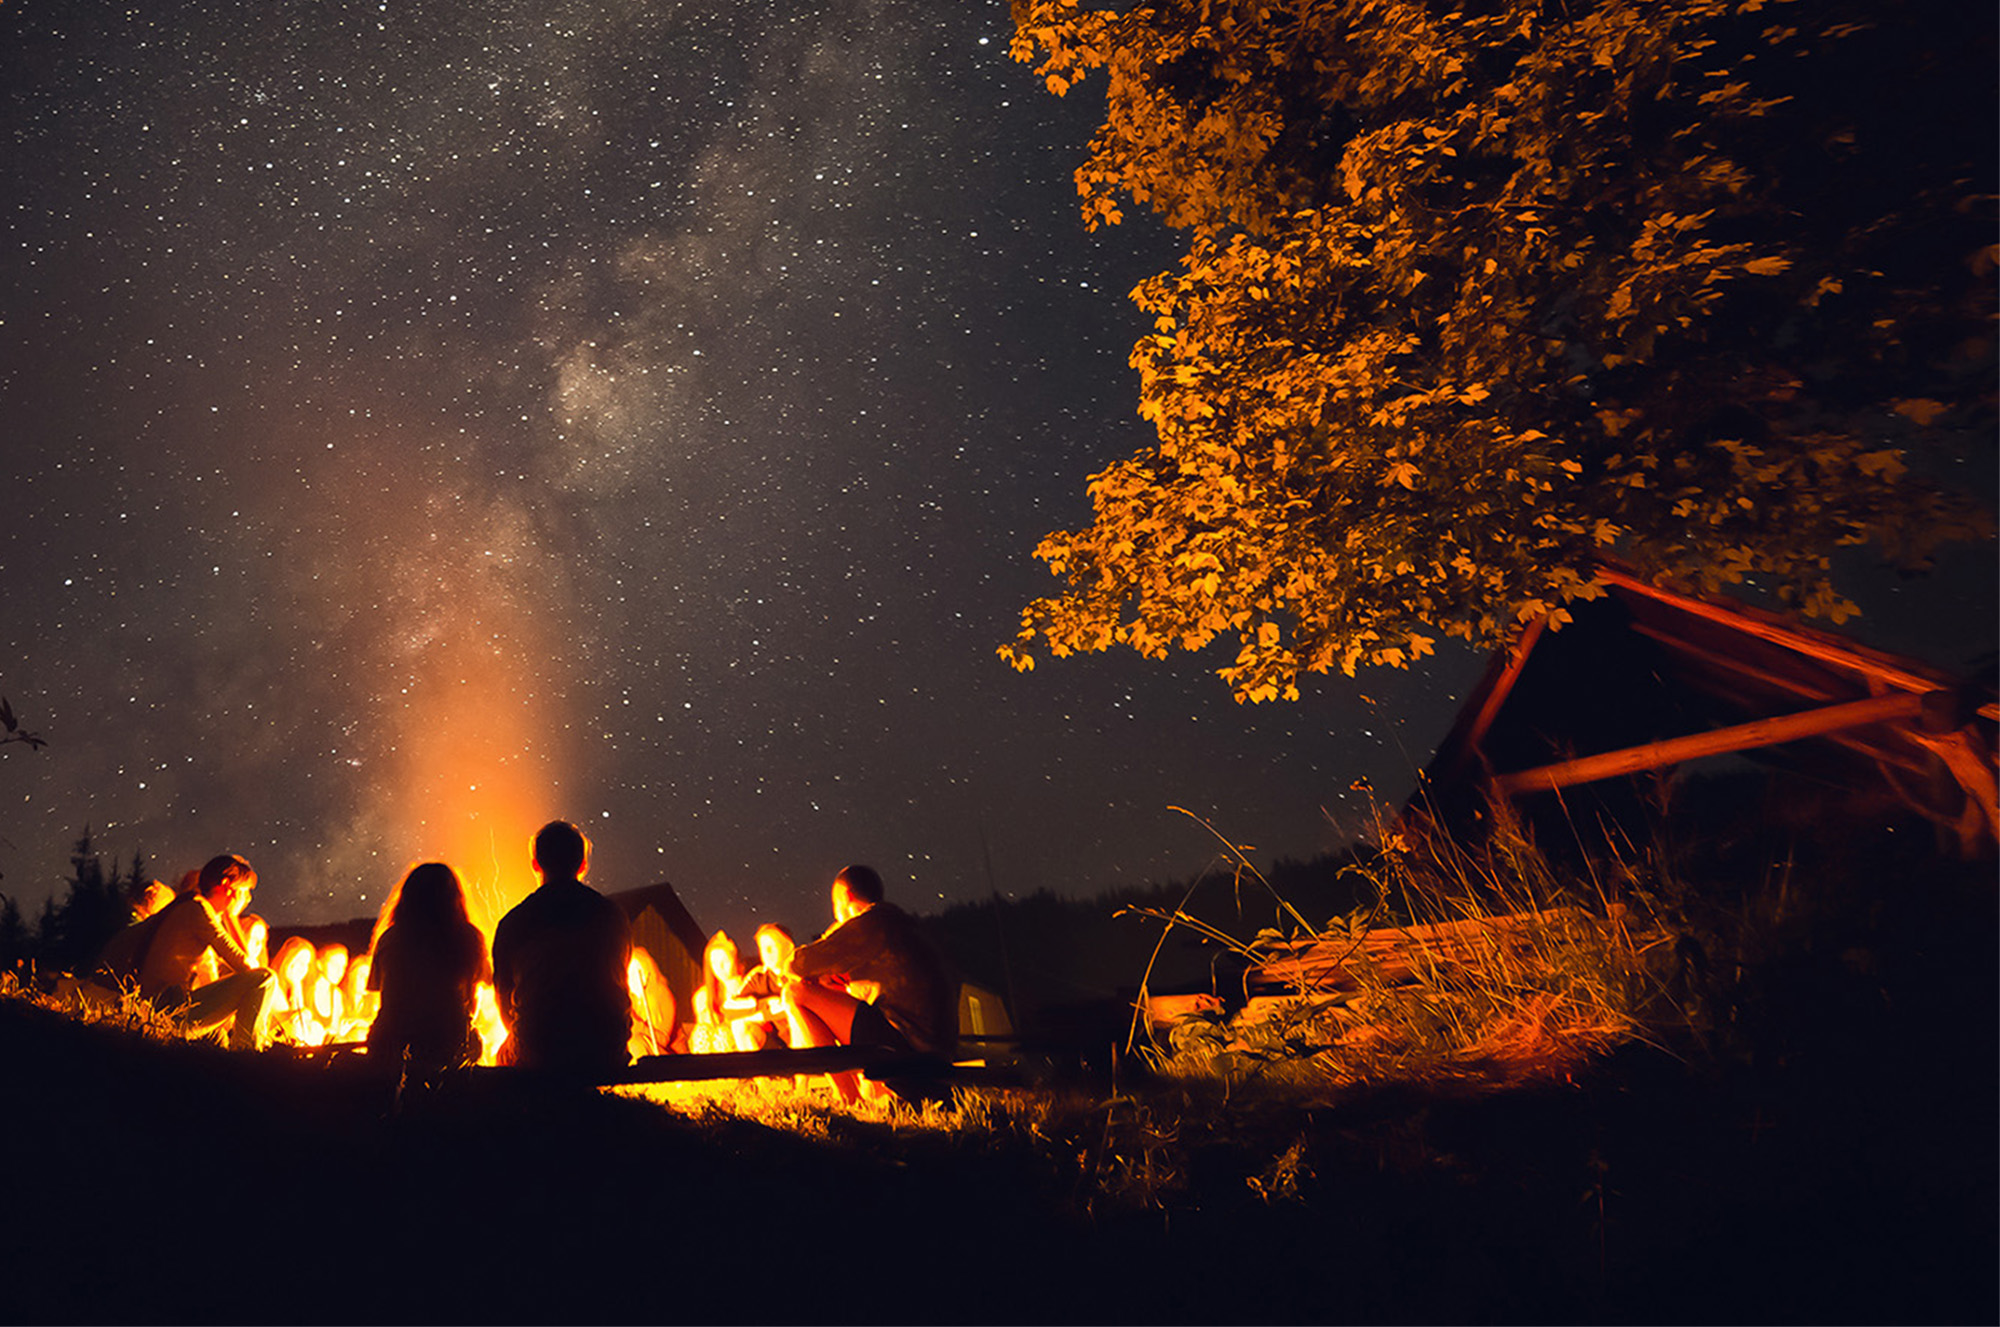
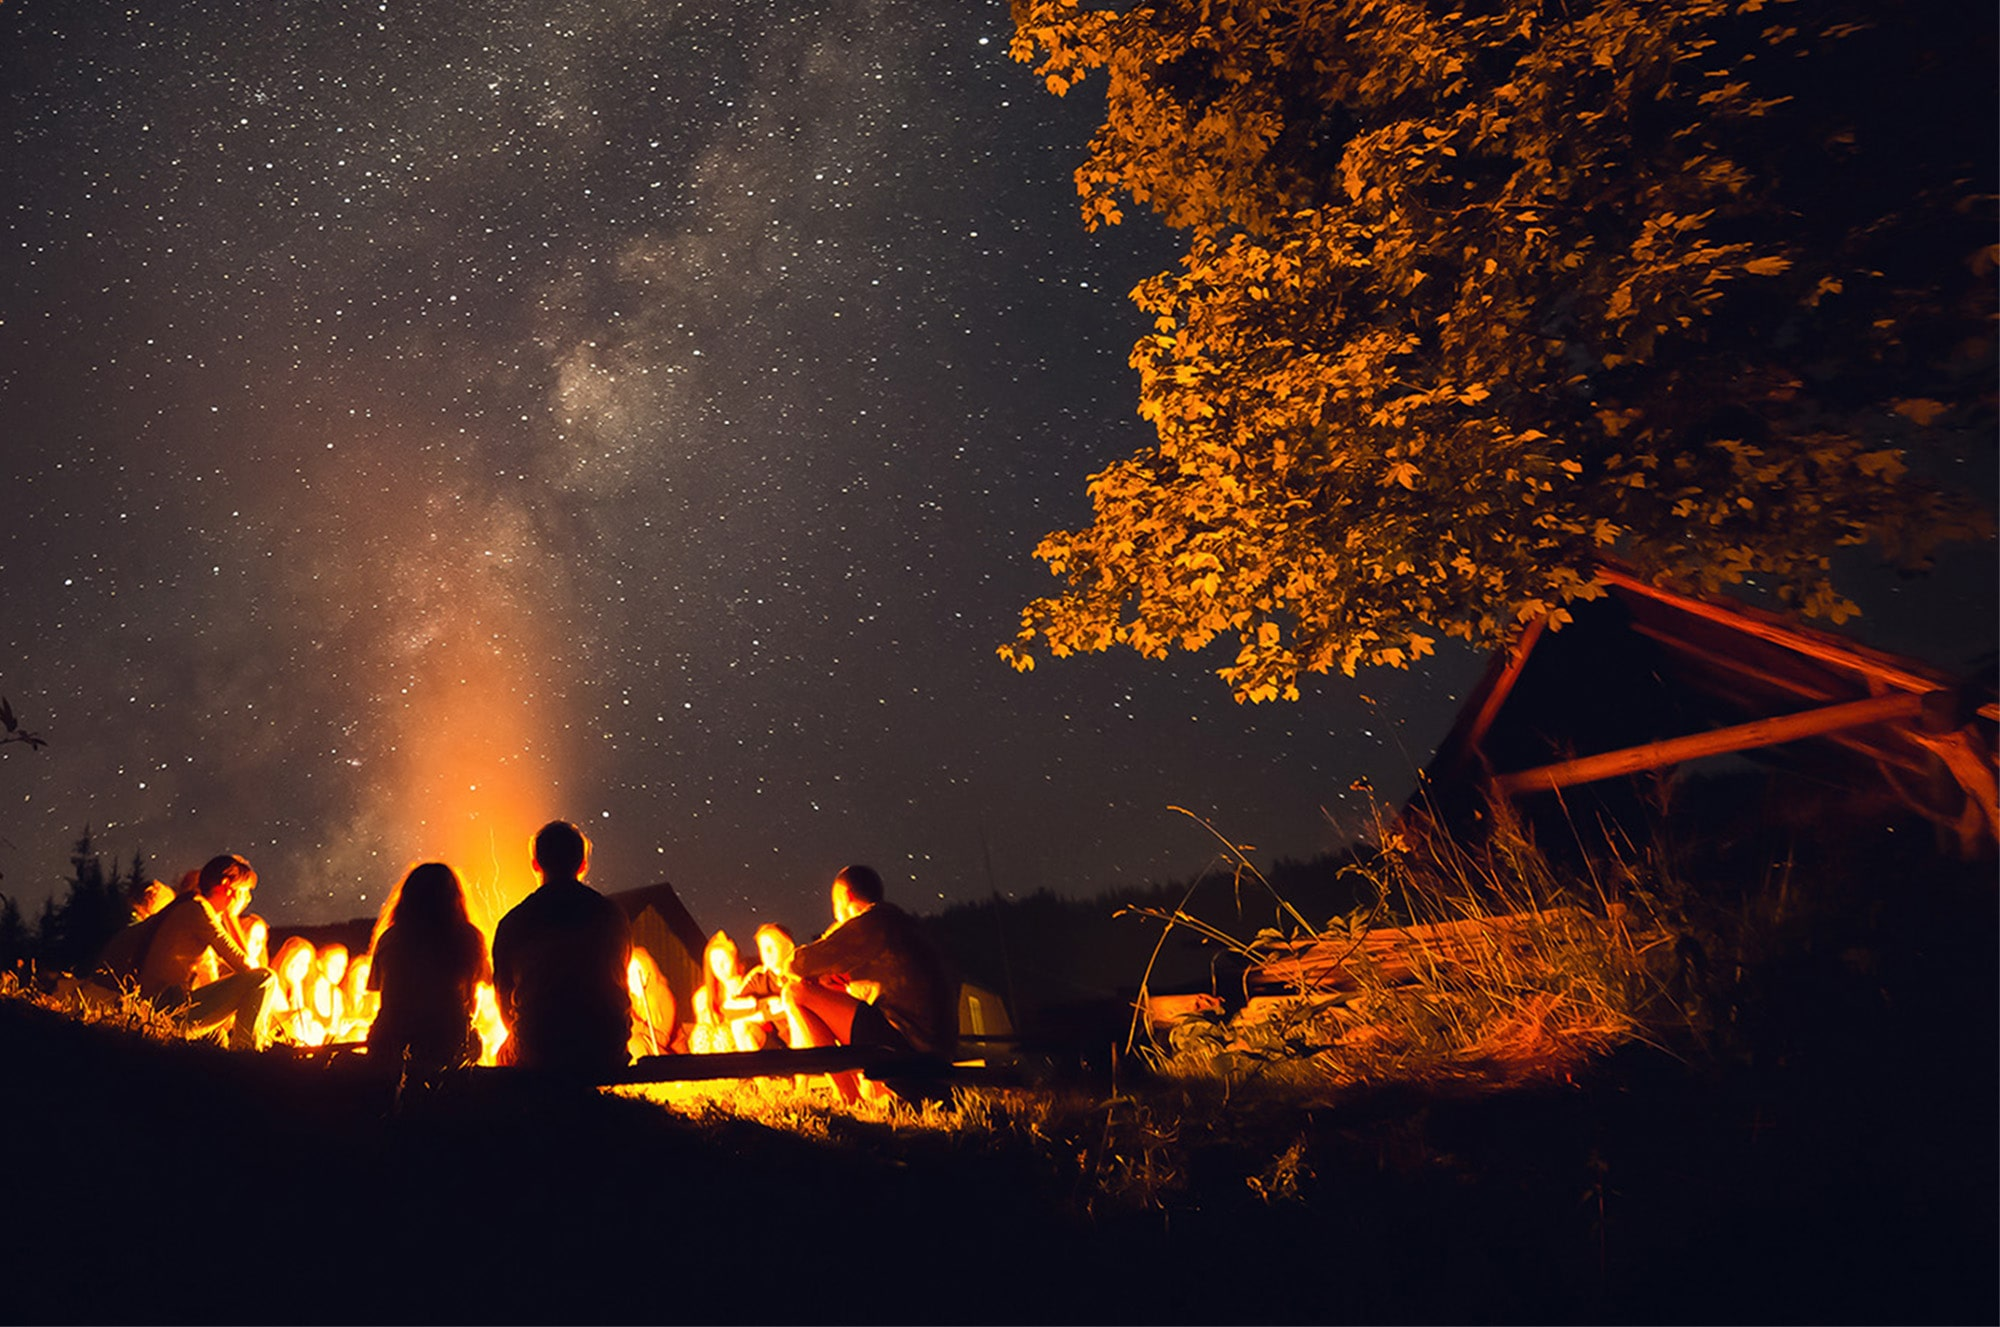
imagens otimizadas

diff --git a/jornadas.html b/jornadas.html
@@ -554,13 +554,13 @@
               </div>
             </article>
 
-            <article class="portfolio-item pf-amanacu pf-breve">
+            <article class="portfolio-item pf-amanacu pf-aberta">
               <div class="events small-thumbs">
                 <div class="entry clearfix">
                   <div class="entry-image">
                     <a>
                       <img src="imgs/jornadas/06lencois.jpg" alt="Lençóis Maranhenses">
-                      <div class="entry-date"><span>2019</span></div>
+                      <div class="entry-date"><span>Mai-Set <big>2019</big></span></div>
                     </a>
                   </div>
                   <div class="entry-c">
@@ -569,17 +569,17 @@
                       <h3></h3>
                     </div>
                     <ul class="entry-meta clearfix">
-                      <li><span class="badge badge-status">Em Breve</span></li>
+                      <li><span class="badge badge-status">Inscrições Abertas</span></li>
                       <li><span class="badge badge-amanacu" data-toggle="tooltip" data-placement="right" data-html="true" data-original-title='
 					                    <div class="tooltip-inner custom"><p class="nomargin">
                         				Jornadas em grupo, em lugares escolhidos por tema, no Brasil e no exterior.</p></div>'>Amanaçu</span></li>
                     </ul>
                     <br>
                     <div class="entry-content">
-                      <p><i class="icon-map-marker">&nbsp</i> Santo Amaro, MA - Brasil<br>
-                        <i class="icon-calendar2">&nbsp</i> A DEFINIR<br>
-                        <i class="icon-user">&nbsp</i> A DEFINIR</p>
-                      <a href="#" data-toggle="modal" data-target=".06lencois" class="btn btn-lg btn-success">Tenho Interesse</a>
+                      <p><i class="icon-map-marker">&nbsp</i> Lençóis Maranhenses, MA - Brasil<br>
+                        <i class="icon-calendar2">&nbsp</i> Maio a Setembro<br>
+                        <i class="icon-user">&nbsp</i> Provocador: O vento e as dunas</p>
+                      <a href="#" data-toggle="modal" data-target=".06lencois" class="btn btn-lg btn-success">Quero Ir!</a>
                     </div>
                   </div>
                 </div>

diff --git a/jornada-03-peru.html b/jornada-03-peru.html
@@ -241,8 +241,8 @@
 								<div class="fbox-desc">
 									<h2 style="color: #005377;"><i class="icon-bill"></i> Quanto custa?</h2>
 									<ul>
-										<li class="allmargin-xsm"><big>Quarto Duplo: USD 3.600 / pessoa</big></li>
-										<li class="allmargin-xsm"><big>Quarto Individual: USD 4.680 / pessoa</big></li>
+										<li class="allmargin-xsm"><big>Quarto Duplo: $3.600 dólares / pessoa</big></li>
+										<li class="allmargin-xsm"><big>Quarto Individual: $4.680 dólares / pessoa</big></li>
 									</ul>
 								</div>
 							</div>

diff --git a/jornada-04-amazonia.html b/jornada-04-amazonia.html
@@ -130,7 +130,7 @@
 					</div>
 
 					<div data-animate="fadeIn" class="col_two_fifth col_last">
-						<img src="imgs/jornadas/tapajos/tapajos-sm.jpg" alt="barco">
+						<img src="imgs/jornadas/tapajos/tapajos-sm.jpg" alt="sumauma">
 					</div>
 
 					<div class="clear"></div>
